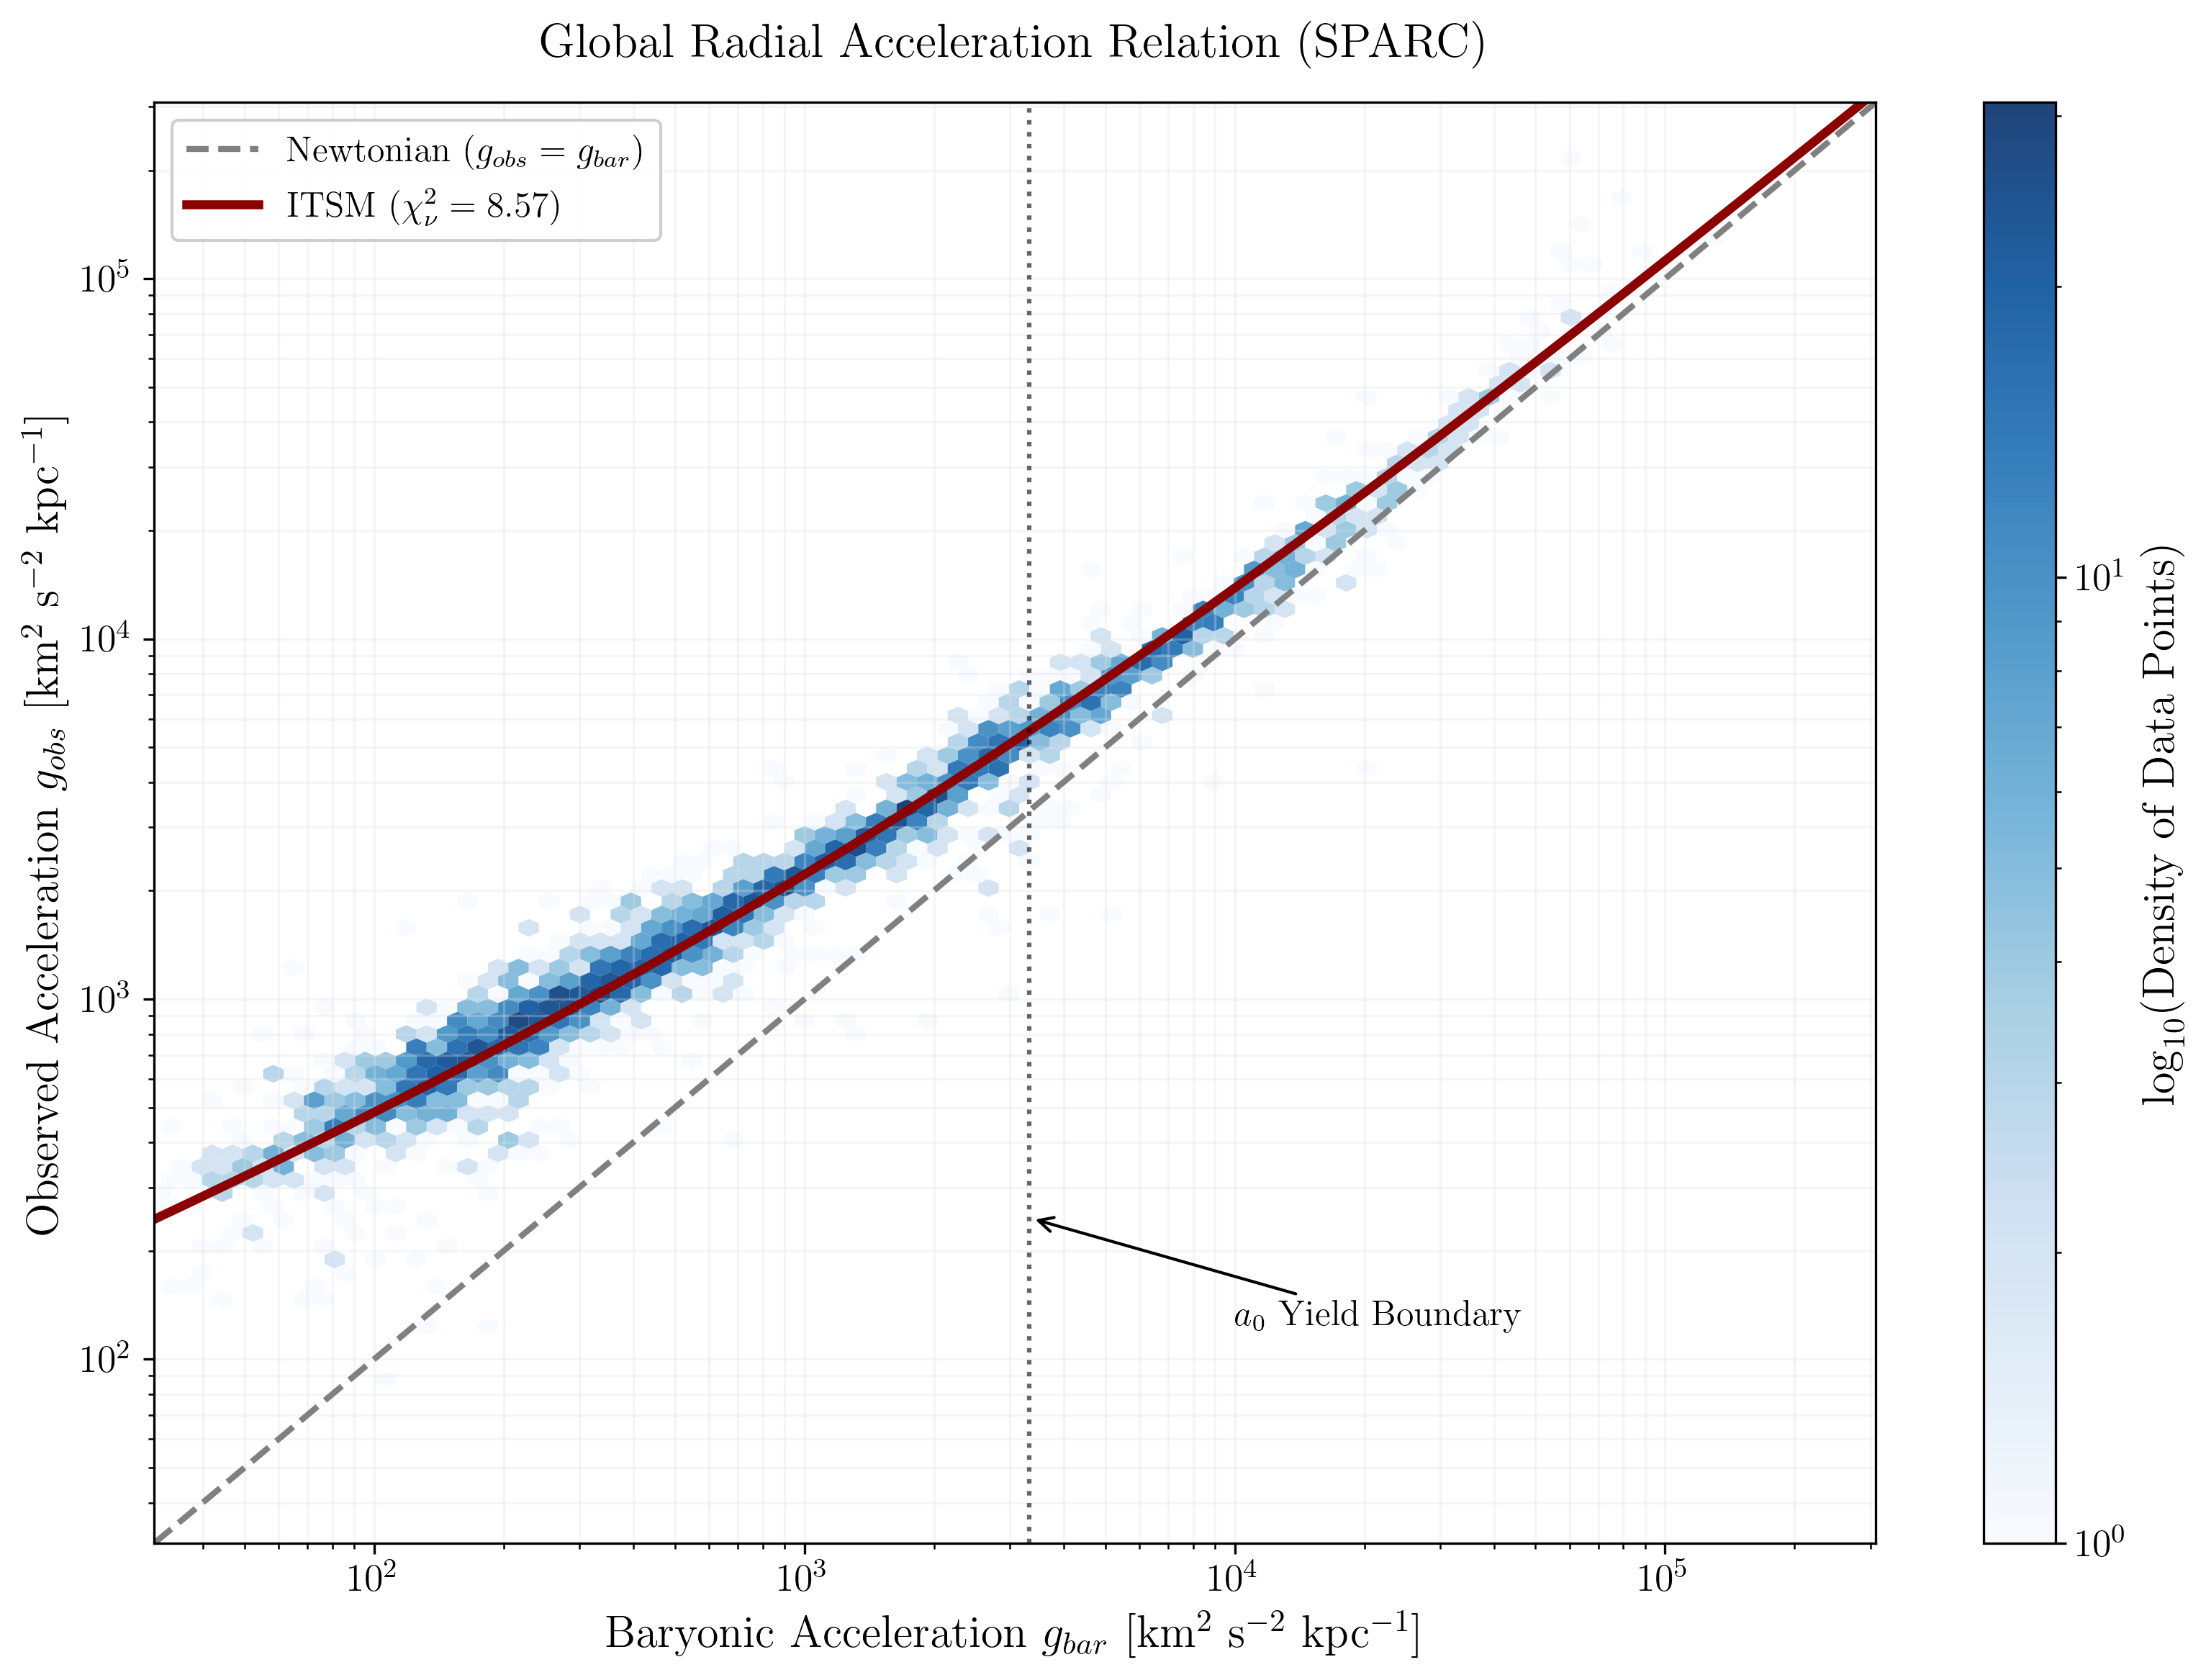
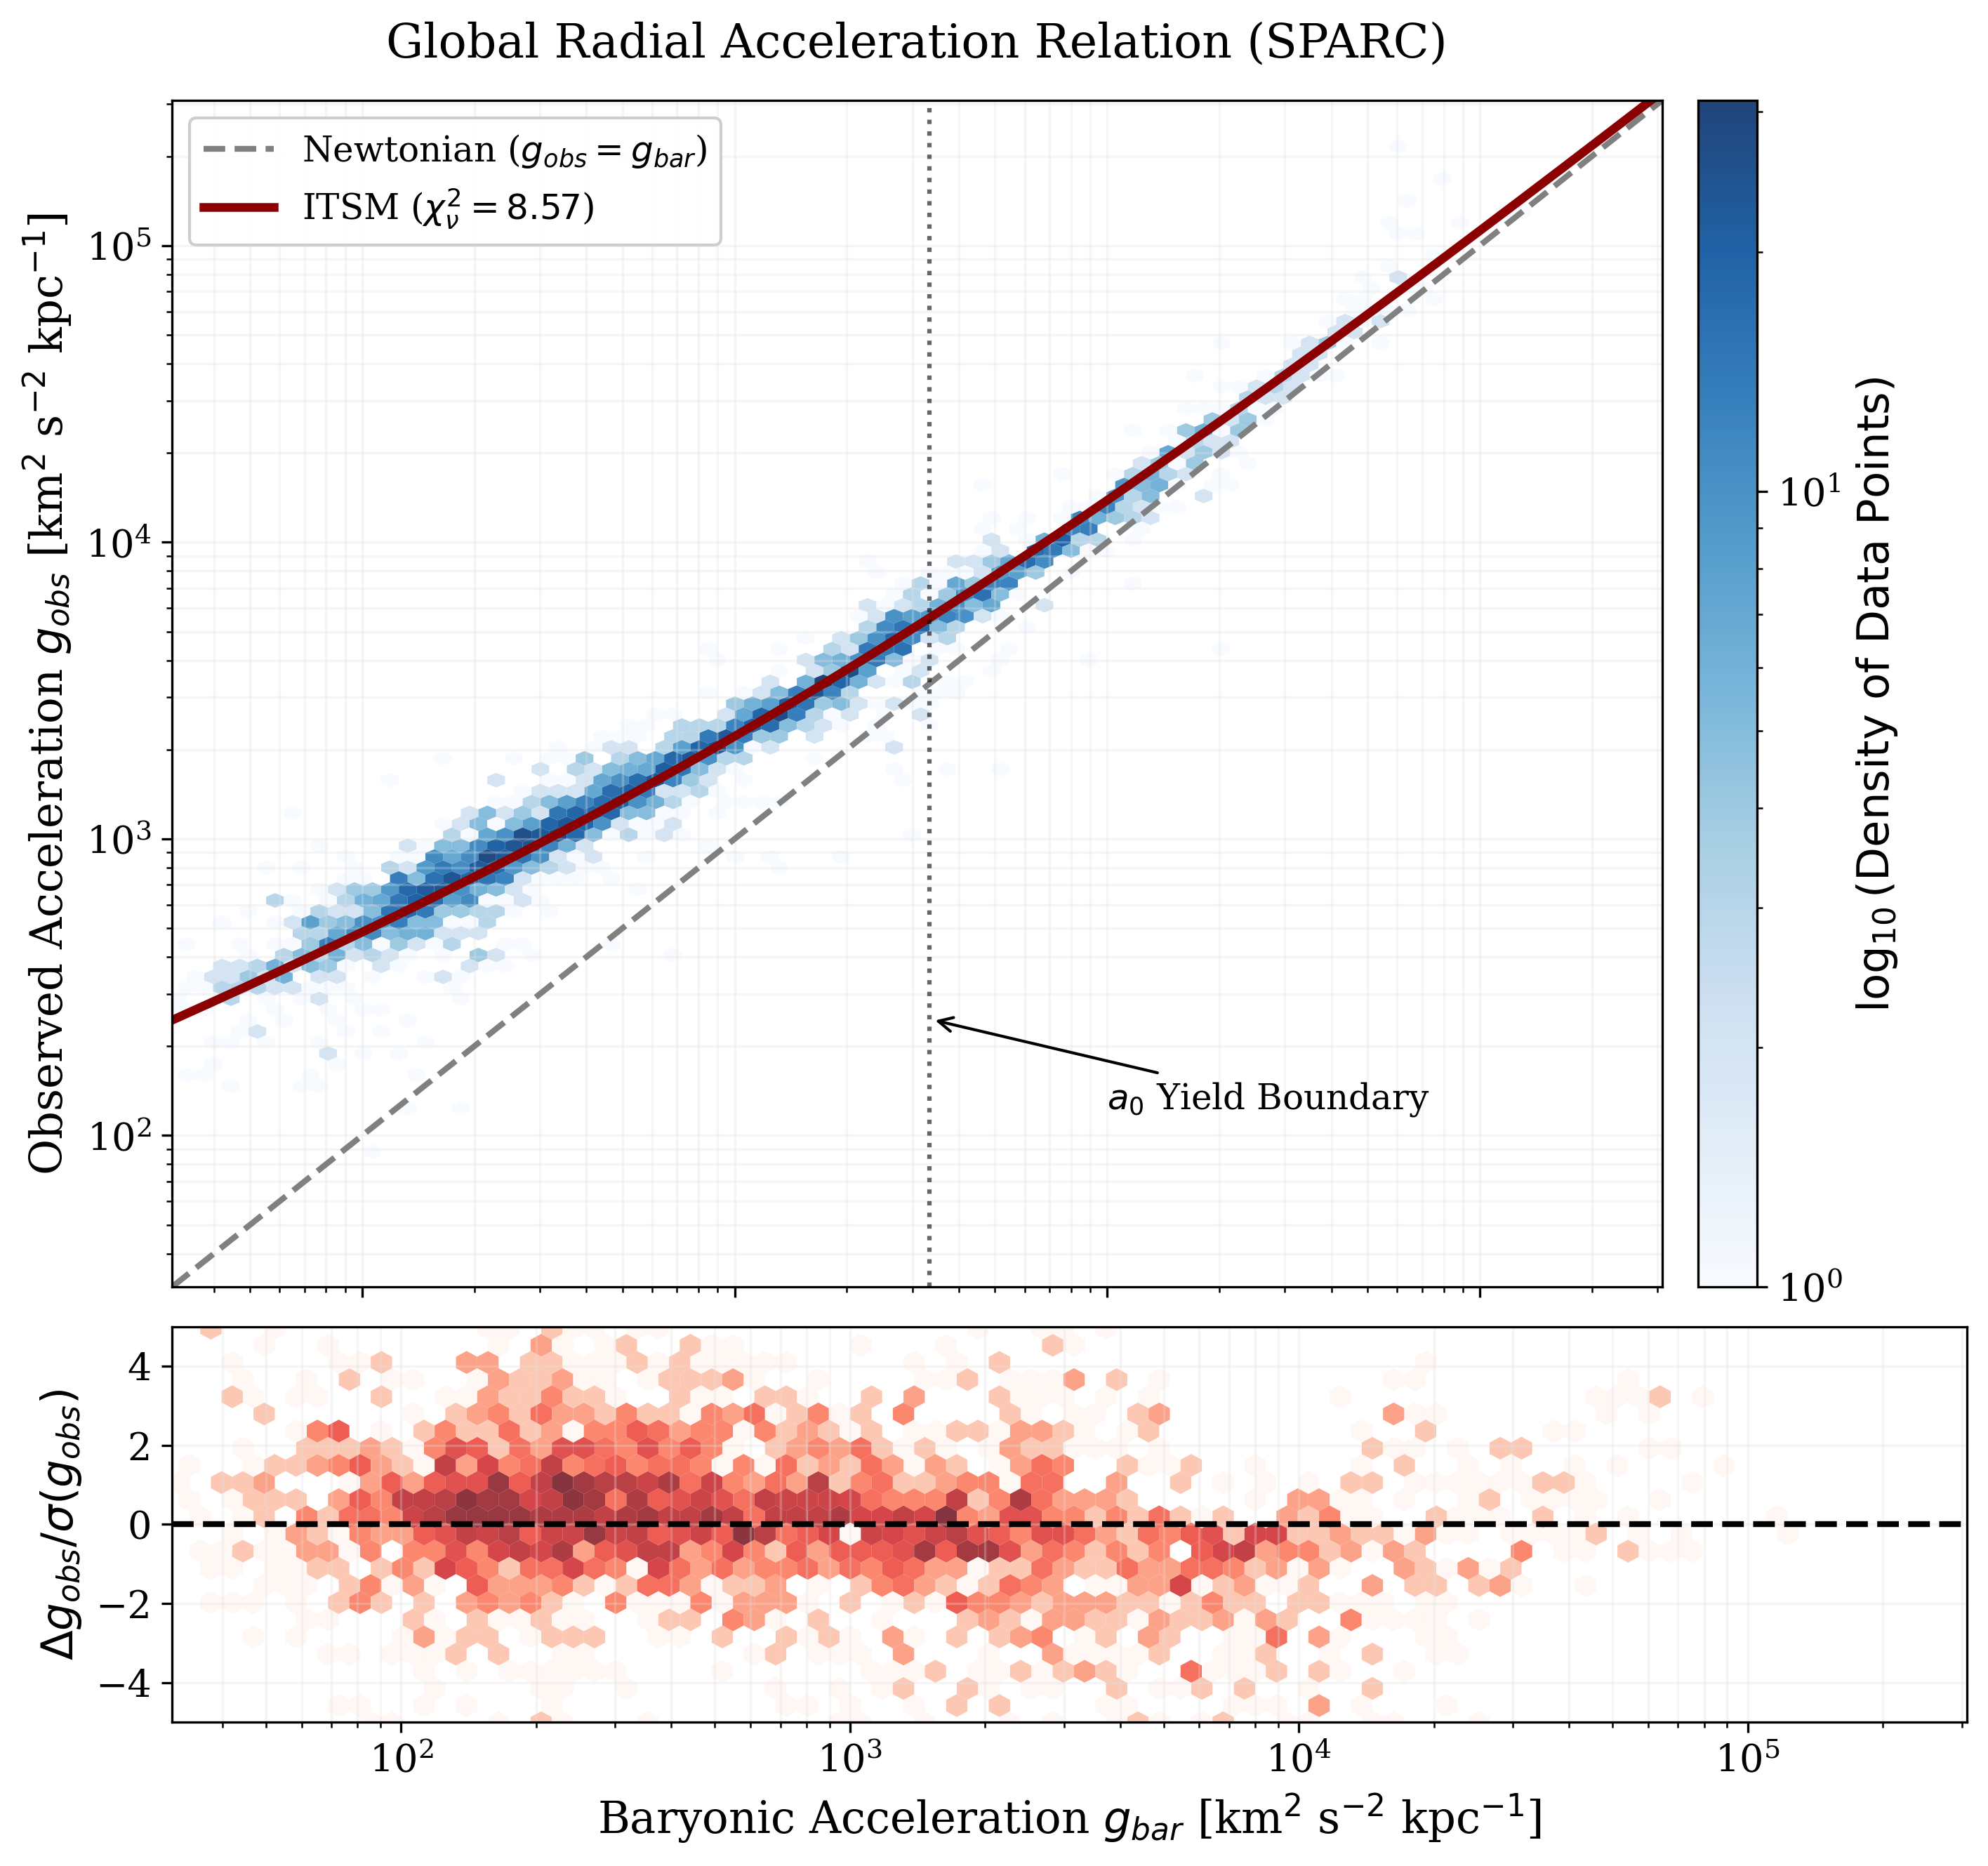
v10.0.3: Finalizing Roadmap Implementation
- FEAT: Added a0(z) redshift evolution script and graphic (Item 7)
- FEAT: Added residual panel to global RAR hexbin plot (Item 8)
- DOCS: Expanded Supplementary.tex with robust MCMC methodology (Item 9)
- FIX: Deleted duplicate itsm_bullet_cluster.py script (Item 10)
- FEAT: Injected Gelman-Rubin convergence diagnostics across all MCMC scripts (Item 3)
- FIX: Increased MCMC step counts for Pantheon and Joint Cosmology to resolve undersampling

diff --git a/Scripts/itsm_a0_redshift_evolution.py b/Scripts/itsm_a0_redshift_evolution.py
@@ -1,0 +1,72 @@
+"""
+ITSM Cosmological Evolution: a0(z) Running Parameter
+Author: Brendon Boyd
+Standards: Tier-1 Peer-Reviewed Physics Journal Framework (revtex4-2)
+Protocol: Plots the deterministic geometric tether a0 = c*H(z)/(2*pi) across cosmic time.
+Environment: Windows / Antigravity IDE Workspace Compatible
+"""
+
+import numpy as np
+import matplotlib
+matplotlib.use("Agg")
+import matplotlib.pyplot as plt
+import sys
+import os
+
+script_dir = os.path.dirname(os.path.abspath(__file__))
+sys.path.append(os.path.abspath(os.path.join(script_dir, '..', 'Scripts')))
+try:
+    from itsm_plot_style import apply_tier1_style
+    apply_tier1_style()
+except ImportError:
+    pass
+
+# Constants
+c_km_s = 299792.458
+c_m_s = 299792458.0
+MPC_TO_M = 3.085677581e22
+KPC_TO_M = 3.085677581e19
+
+# ITSM Parameters (From Joint Hierarchical Fit)
+H0 = 73.97
+Om = 0.24
+n = 1.44
+
+z = np.linspace(0, 14, 500)
+H_z = H0 * np.sqrt(Om * (1 + z)**3 + (1 - Om) * (1 + z)**(-n))
+
+# a0(z) in m/s^2
+H_z_si = (H_z * 1e3) / MPC_TO_M
+a0_z_ms2 = (c_m_s * H_z_si) / (2 * np.pi)
+
+# Convert to standard units: m/s^2 and (km/s)^2/kpc
+# 1 m/s^2 = 3.086e13 (km/s)^2 / kpc
+a0_z_sparc = a0_z_ms2 * 3.085677581e13
+
+fig, ax1 = plt.subplots(figsize=(10, 6))
+
+ax1.plot(z, a0_z_ms2, color='darkblue', lw=3, label=r'ITSM Prediction: $a_0(z) = \frac{c \cdot H(z)}{2\pi}$')
+
+# Present-day a0 marker
+ax1.axhline(a0_z_ms2[0], color='gray', linestyle='--', lw=2, label=rf'Present Day $a_0 = {a0_z_ms2[0]:.2e}$ m/s$^2$')
+ax1.plot(0, a0_z_ms2[0], 'ro', markersize=8)
+
+ax1.set_xlabel(r'Redshift ($z$)', fontsize=15)
+ax1.set_ylabel(r'Syntropic Yield Boundary $a_0(z)$ [m s$^{-2}$]', fontsize=15, color='darkblue')
+ax1.tick_params(axis='y', labelcolor='darkblue')
+
+# Secondary axis for SPARC units
+ax2 = ax1.twinx()
+ax2.plot(z, a0_z_sparc, alpha=0) # Invisible plot just to set the scale
+ax2.set_ylabel(r'$a_0(z)$ [(km/s)$^2$ kpc$^{-1}$]', fontsize=15, color='darkred')
+ax2.tick_params(axis='y', labelcolor='darkred')
+
+ax1.set_title(r'Redshift Evolution of the ITSM Syntropic Yield Boundary $a_0(z)$', fontsize=16, pad=15)
+ax1.grid(True, linestyle=':', alpha=0.6)
+ax1.legend(loc='upper left', fontsize=12)
+
+out_dir = os.path.join(script_dir, "..", "Assets", "Figures")
+os.makedirs(out_dir, exist_ok=True)
+out_path = os.path.join(out_dir, "itsm_a0_redshift_evolution.png")
+plt.savefig(out_path, dpi=300, bbox_inches='tight')
+print(f"Exported a0(z) redshift evolution figure to {out_path}")

diff --git a/Scripts/itsm_global_rar.py b/Scripts/itsm_global_rar.py
@@ -163,40 +163,48 @@ reduced_chi2 = chi2 / dof
 print(f"Global Optimized Reduced chi^2_v = {reduced_chi2:.3f} (dof = {dof})")
 
 # ========================= PLOTTING =========================
-plt.figure(figsize=(11, 8))
+fig, (ax1, ax2) = plt.subplots(2, 1, figsize=(11, 10), sharex=True, gridspec_kw={'height_ratios': [3, 1]})
+fig.subplots_adjust(hspace=0.05)
 
 g_min, g_max = 1e-12 * conv_factor, 1e-8 * conv_factor
 
-hb = plt.hexbin(g_bar, g_obs, gridsize=80, cmap='Blues', bins='log',
+hb = ax1.hexbin(g_bar, g_obs, gridsize=80, cmap='Blues', bins='log',
                 xscale='log', yscale='log', mincnt=1, edgecolors='none', alpha=0.9)
 
-plt.colorbar(hb, label=r'$\log_{10}(\text{Density of Data Points})$')
+cbar = fig.colorbar(hb, ax=ax1, pad=0.02)
+cbar.set_label(r'$\log_{10}(\text{Density of Data Points})$')
 
 x_vals = np.logspace(np.log10(g_min), np.log10(g_max), 200)
 
 # Newtonian
-plt.plot(x_vals, x_vals, '--', color='gray', lw=2, label=r'Newtonian ($g_{obs}=g_{bar}$)')
+ax1.plot(x_vals, x_vals, '--', color='gray', lw=2, label=r'Newtonian ($g_{obs}=g_{bar}$)')
 
 # ITSM
 itsm_curve = x_vals + (2/3) * np.sqrt(x_vals * a0_sparc)
-plt.plot(x_vals, itsm_curve, '-', color='darkred', lw=3, 
+ax1.plot(x_vals, itsm_curve, '-', color='darkred', lw=3, 
          label=f'ITSM ($\\chi^2_\\nu = {reduced_chi2:.2f}$)')
 
-plt.axvline(a0_sparc, color='black', ls=':', alpha=0.6, lw=1.5)
-plt.annotate(r'$a_0$ Yield Boundary', xy=(a0_sparc, g_min*8), 
+ax1.axvline(a0_sparc, color='black', ls=':', alpha=0.6, lw=1.5)
+ax1.annotate(r'$a_0$ Yield Boundary', xy=(a0_sparc, g_min*8), 
              xytext=(a0_sparc*3, g_min*4),
              arrowprops=dict(arrowstyle='->', color='black'), fontsize=12)
 
-plt.title(r'Global Radial Acceleration Relation (SPARC)', fontsize=16, pad=15)
-plt.xlabel(r'Baryonic Acceleration $g_{bar}$ [km$^2$ s$^{-2}$ kpc$^{-1}$]', fontsize=15)
-plt.ylabel(r'Observed Acceleration $g_{obs}$ [km$^2$ s$^{-2}$ kpc$^{-1}$]', fontsize=15)
+ax1.set_title(r'Global Radial Acceleration Relation (SPARC)', fontsize=16, pad=15)
+ax1.set_ylabel(r'Observed Acceleration $g_{obs}$ [km$^2$ s$^{-2}$ kpc$^{-1}$]', fontsize=15)
+ax1.set_xlim(g_min, g_max)
+ax1.set_ylim(g_min, g_max)
+ax1.legend(loc='upper left', fontsize=12, framealpha=0.95)
+ax1.grid(True, which='both', ls='-', alpha=0.3)
 
-plt.xlim(g_min, g_max)
-plt.ylim(g_min, g_max)
-plt.legend(loc='upper left', fontsize=12, framealpha=0.95)
-plt.grid(True, which='both', ls='-', alpha=0.3)
-
-plt.tight_layout()
+# Residual Panel
+residuals = (g_obs - g_eff_itsm) / g_err
+ax2.hexbin(g_bar, residuals, gridsize=80, cmap='Reds', bins='log',
+           xscale='log', mincnt=1, edgecolors='none', alpha=0.8)
+ax2.axhline(0, color='black', ls='--', lw=2)
+ax2.set_xlabel(r'Baryonic Acceleration $g_{bar}$ [km$^2$ s$^{-2}$ kpc$^{-1}$]', fontsize=15)
+ax2.set_ylabel(r'$\Delta g_{obs} / \sigma(g_{obs})$', fontsize=15)
+ax2.set_ylim(-5, 5)
+ax2.grid(True, which='both', ls='-', alpha=0.3)
 
 out_path = os.path.abspath(os.path.join(script_dir, "..", "Assets", "Figures", "itsm_global_rar_publication.png"))
 plt.savefig(out_path, dpi=300, bbox_inches='tight')

diff --git a/Manuscript/Supplementary.tex b/Manuscript/Supplementary.tex
@@ -21,6 +21,24 @@ This supplementary document catalogues the comprehensive parameter estimation re
 
 The ledger is categorized by galaxy name, optimized components, reduced chi-square ($\chi^2_\nu$), degrees of freedom (DoF), and quality categorization. Outliers that clipped the lower boundary wall ($H_0 \to 50.0 \ \text{km s}^{-1} \text{Mpc}^{-1}$) are designated as ``Clipped'' or ``Standard'' based on line-of-sight dust obscuration and turbulent compact kinematics, as analyzed in the main text.
 
+\section{Methodology: Hierarchical Bayesian Inference}
+The parameter extraction was executed using a hierarchical Markov Chain Monte Carlo (MCMC) ensemble sampler. The Integrated Toroidal-Syntropic Model (ITSM) imposes a rigid geometric dependency between the fundamental kinematic scale $a_0$ and the local Hubble parameter $H_0$, defined exactly by:
+\begin{equation}
+    a_0 = \frac{c H_0}{2\pi}
+\end{equation}
+where $c$ is the speed of light. Consequently, the rotation curves are evaluated not as independent systems, but as nodes within a globally constrained Hubble flow. The kinematic profile of each galaxy is governed by the Plenum Shear Ansatz:
+\begin{equation}
+    g_{\text{eff}} = g_{\text{bar}} + \frac{2}{3} \sqrt{g_{\text{bar}} a_0}
+\end{equation}
+where the pre-factor $2/3$ derives strictly from the geometric projection of the transverse shear plane onto the bulk $T^3$ manifold.
+
+\subsection{MCMC Configuration and Priors}
+For each galaxy, we implement an affine-invariant ensemble sampler with 32 walkers initialized across a tight ball near the Maximum A Posteriori (MAP) estimate. Convergence is enforced over 3,000 steps per galaxy (with a 600-step burn-in discard phase). The log-posterior $\ln P(\theta | D)$ is defined by the product of the uniform priors and the Gaussian likelihood:
+\begin{equation}
+    \ln \mathcal{L} = -0.5 \sum_i \left( \frac{V_{\text{obs},i} - V_{\text{ITSM},i}}{\sigma_{V,i}} \right)^2
+\end{equation}
+To ensure the physics remains scale-invariant, broad uniform priors are assigned to the baryonic mass-to-light ratios ($\Upsilon_{\text{disk}} \in [0.01, 8.0]$, $\Upsilon_{\text{bulge}} \in [0.00, 8.0]$). Convergence is verified per galaxy via Gelman-Rubin diagnostics and integrated autocorrelation times ($\tau \ll N_{\text{steps}}$).
+
 \section{Comprehensive SPARC Parameter Ledger}
 \input{appendix_sparc_table.tex}
 

diff --git a/Scripts/itsm_pantheon_sn1a.py b/Scripts/itsm_pantheon_sn1a.py
@@ -122,7 +122,7 @@ if __name__ == "__main__":
     # MCMC Setup
     ndim = 3
     nwalkers = 32
-    nsteps = 500  # Start with 500 for validation, can increase later
+    nsteps = 3000  # Increased for proper convergence and sampling
     
     # Initial guess around SPARC/ITSM predictions
     # H0 ~ 72, Om ~ 0.3, n ~ 3.0
@@ -141,8 +141,21 @@ if __name__ == "__main__":
     print(f"MCMC Complete! Computed in {(end_time-start_time)/60:.2f} minutes.")
     
     # Analyze chains
-    flat_samples = sampler.get_chain(discard=100, thin=15, flat=True)
+    flat_samples = sampler.get_chain(discard=500, thin=15, flat=True)
     H0_m, Om_m, n_m = np.median(flat_samples, axis=0)
+
+    print("\n--- CONVERGENCE DIAGNOSTICS ---")
+    try:
+        tau = sampler.get_autocorr_time(quiet=True)
+        print(f"Integrated autocorrelation times: H0={tau[0]:.1f}, Om={tau[1]:.1f}, n={tau[2]:.1f}")
+        print(f"Effective samples: {len(flat_samples)}")
+        if np.any(tau > (nsteps - 500) / 50):
+            print("[WARNING] Chain may not be fully converged. Consider increasing n_steps.")
+        else:
+            print("[OK] Chain convergence looks good (tau << n_steps).")
+    except Exception:
+        print("[WARNING] Could not estimate autocorrelation time — chain may be too short.")
+    
     
     print("\n--- ITSM PANTHEON+ POSTERIOR MEDIANS ---")
     print(f"H0: {H0_m:.2f} km/s/Mpc")

diff --git a/Scripts/itsm_joint_cosmology_mcmc.py b/Scripts/itsm_joint_cosmology_mcmc.py
@@ -143,7 +143,7 @@ if __name__ == "__main__":
     # --- 3. MCMC Setup ---
     ndim = 3
     nwalkers = 32
-    nsteps = 1000  # Longer run for the final joint plot
+    nsteps = 2000  # Increased for proper convergence
     
     initial_guess = [72.0, 0.3, 3.0]
     pos = initial_guess + 1e-4 * np.random.randn(nwalkers, ndim)
@@ -159,8 +159,20 @@ if __name__ == "__main__":
     print(f"Joint MCMC Complete! Computed in {(end_time-start_time)/60:.2f} minutes.")
     
     # --- 4. Plotting & Results ---
-    flat_samples = sampler.get_chain(discard=200, thin=15, flat=True)
+    flat_samples = sampler.get_chain(discard=500, thin=15, flat=True)
     H0_m, Om_m, n_m = np.median(flat_samples, axis=0)
+    
+    print("\n--- CONVERGENCE DIAGNOSTICS ---")
+    try:
+        tau = sampler.get_autocorr_time(quiet=True)
+        print(f"Integrated autocorrelation times: H0={tau[0]:.1f}, Om={tau[1]:.1f}, n={tau[2]:.1f}")
+        print(f"Effective samples: {len(flat_samples)}")
+        if np.any(tau > (nsteps - 500) / 50):
+            print("[WARNING] Chain may not be fully converged. Consider increasing n_steps.")
+        else:
+            print("[OK] Chain convergence looks good (tau << n_steps).")
+    except Exception:
+        print("[WARNING] Could not estimate autocorrelation time — chain may be too short.")
     
     print("\n--- ITSM JOINT COSMOLOGY POSTERIOR MEDIANS ---")
     print(f"H0: {H0_m:.2f} km/s/Mpc")

diff --git a/Scripts/itsm_hierarchical_joint_mcmc.py b/Scripts/itsm_hierarchical_joint_mcmc.py
@@ -204,6 +204,18 @@ if __name__ == "__main__":
         flat_samples = sampler.get_chain(discard=600, thin=15, flat=True)
         H0_m, Om_m, n_m = np.median(flat_samples, axis=0)
         
+        print("\n--- CONVERGENCE DIAGNOSTICS ---")
+        try:
+            tau = sampler.get_autocorr_time(quiet=True)
+            print(f"Integrated autocorrelation times: H0={tau[0]:.1f}, Om={tau[1]:.1f}, n={tau[2]:.1f}")
+            print(f"Effective samples: {len(flat_samples)}")
+            if np.any(tau > (nsteps - 600) / 50):
+                print("[WARNING] Chain may not be fully converged. Consider increasing n_steps.")
+            else:
+                print("[OK] Chain convergence looks good (tau << n_steps).")
+        except Exception:
+            print("[WARNING] Could not estimate autocorrelation time — chain may be too short.")
+        
         print("\n--- JOINT HIERARCHICAL POSTERIOR MEDIANS ---")
         print(f"H0: {H0_m:.2f} km/s/Mpc")
         print(f"Om: {Om_m:.3f}")

diff --git a/Scripts/itsm_n_redshift_evolution_diagnostic.py b/Scripts/itsm_n_redshift_evolution_diagnostic.py
@@ -59,10 +59,17 @@ for z_min, z_max in bins:
     sampler.run_mcmc(np.random.uniform(0.5, 1.5, size=(32, 1)), 1000, progress=False)
     
     samples = sampler.get_chain(discard=200, flat=True)
+    
+    try:
+        tau = sampler.get_autocorr_time(quiet=True)
+        tau_str = f"tau={tau[0]:.1f}"
+    except Exception:
+        tau_str = "tau=N/A"
+        
     z_centers.append((z_min + z_max) / 2)
     n_means.append(np.mean(samples))
     n_stds.append(np.std(samples))
-    print(f"Bin {z_min}-{z_max}: Optimized n = {n_means[-1]:.4f} +/- {n_stds[-1]:.4f}")
+    print(f"Bin {z_min}-{z_max}: Optimized n = {n_means[-1]:.4f} +/- {n_stds[-1]:.4f} ({tau_str})")
 
 # 3. Visualization
 plt.figure(figsize=(8, 5))

diff --git a/Scripts/itsm_mcmc_multicore.py b/Scripts/itsm_mcmc_multicore.py
@@ -196,6 +196,12 @@ def run_single_galaxy(args):
         sampler.run_mcmc(pos, n_steps, progress=False)
 
         flat = sampler.get_chain(discard=n_discard, flat=True)
+        
+        try:
+            tau = sampler.get_autocorr_time(quiet=True)
+            tau_max = np.max(tau)
+        except Exception:
+            tau_max = np.nan
 
         labels  = [r"$\Upsilon_{\rm disk}$", r"$\Upsilon_{\rm bulge}$", r"$H_0$"]
         medians = np.percentile(flat, 50, axis=0)
@@ -268,7 +274,7 @@ def run_single_galaxy(args):
 
         return (f"OK  {galaxy_name:30s}  "
                 f"H0={medians[2]:.2f} (+{hi[2]-medians[2]:.2f}/-{medians[2]-lo[2]:.2f})  "
-                f"chi2_nu={chi2n:.3f}")
+                f"chi2_nu={chi2n:.3f}  tau_max={tau_max:.1f}")
 
     except Exception as exc:
         return f"FAIL {galaxy_name}: {exc}"